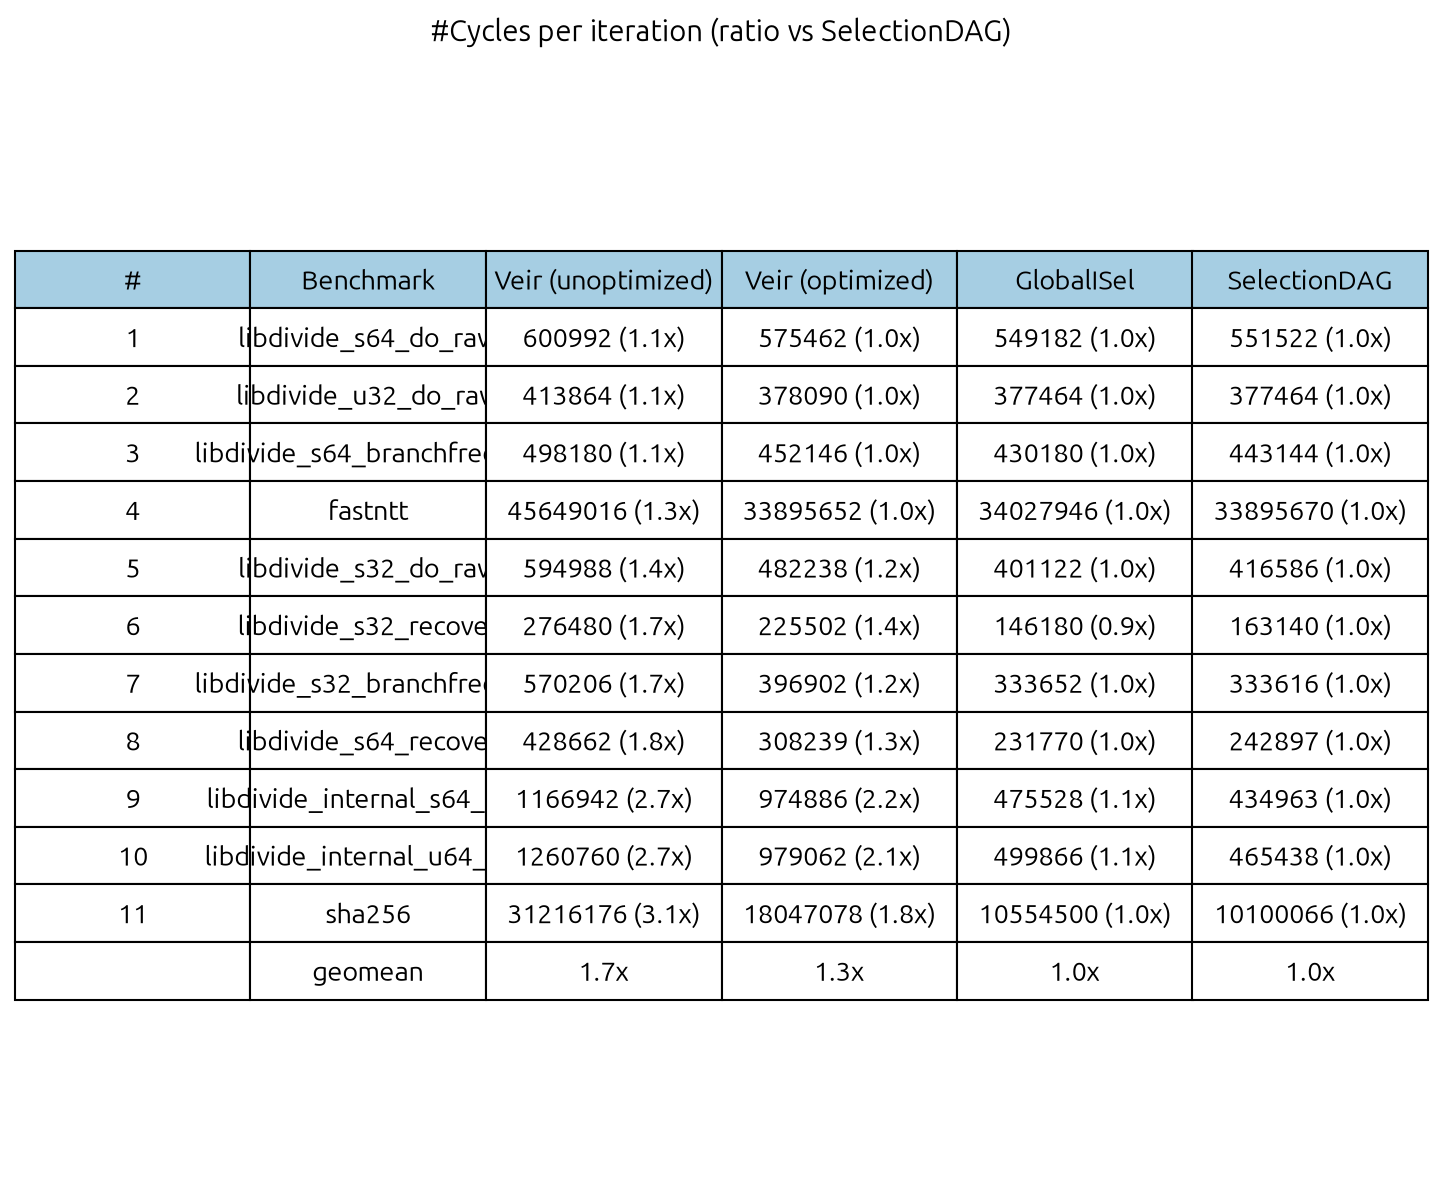
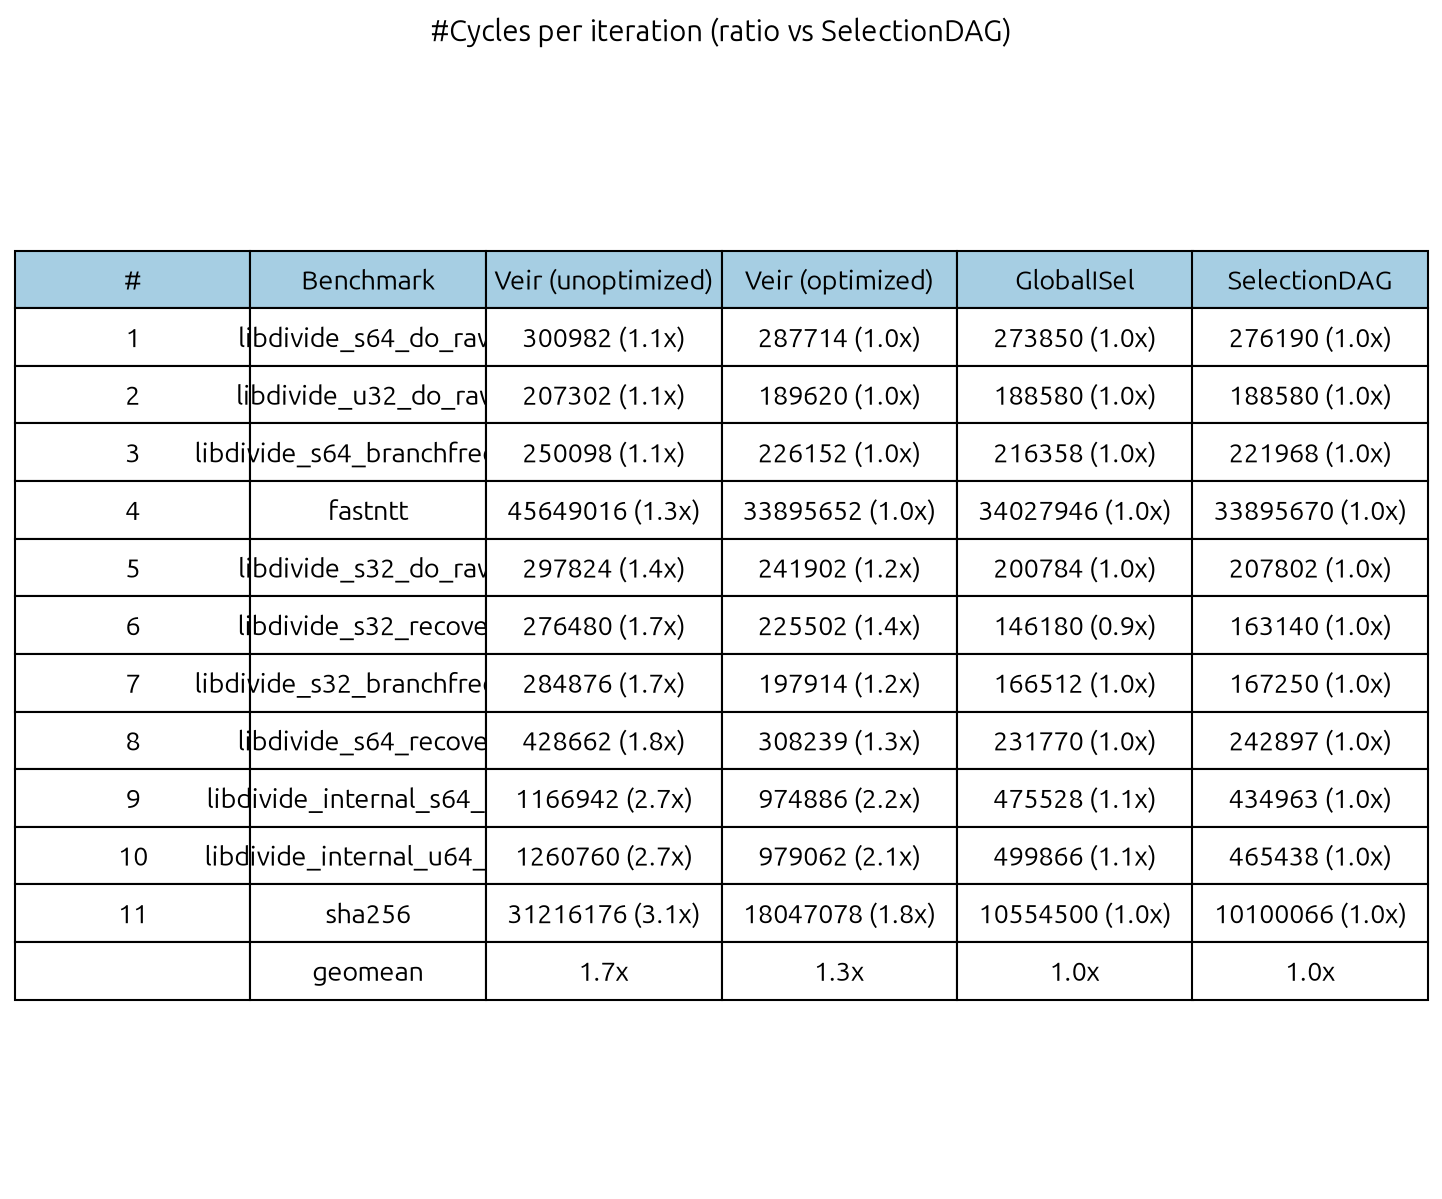
fix

diff --git a/real-benchmarks/table.py b/real-benchmarks/table.py
@@ -26,54 +26,58 @@ import matplotlib
 matplotlib.use("Agg")
 import matplotlib.pyplot as plt
 
+# Sibling script in real-benchmarks/: stats parsing shared with the
+# comparison tool.
+from compare_results import extract_stat, split_name
+
 ROOT_DIR_PATH = Path(
     subprocess.check_output(["git", "rev-parse", "--show-toplevel"]).decode().strip()
 )
 
-# Per-variant cycles_raw.csv inputs, produced by earlier runs of this script
-# against the optimized / unoptimized VeIR results.
-DATA_OPT = ROOT_DIR_PATH / "real-benchmarks" / "data-optimized"
-DATA_UNOPT = ROOT_DIR_PATH / "real-benchmarks" / "data-unoptimized"
+# Per-run gem5 stats produced by bench.py, one file per (benchmark, pipeline).
+RESULTS_DIR = ROOT_DIR_PATH / "real-benchmarks" / "results"
 DATA_DIR = ROOT_DIR_PATH / "real-benchmarks" / "data"
 PLOTS_DIR = ROOT_DIR_PATH / "real-benchmarks" / "plots"
 
-# Table columns, in order. The two VeIR variants come from DATA_OPT/DATA_UNOPT;
-# GlobalISel and SelectionDAG are identical in both and taken from DATA_OPT.
+# Table columns, in order. Directory naming (see utils/generate.py):
+# VEIR_REGALLOC_ASM comes from the plain VEIR flow, without riscv-combine
+# (unoptimized); VEIR_OPT_REGALLOC_ASM from the VEIR_opt flow, with
+# riscv-combine (optimized).
 PIPELINES = [
-    "VEIR_UNOPT",
-    "VEIR_OPT",
+    "VEIR_REGALLOC_ASM",
+    "VEIR_OPT_REGALLOC_ASM",
     "LLC_ASM_globalisel",
     "LLC_ASM_selectiondag",
 ]
 BASELINE = "LLC_ASM_selectiondag"
 
 PIPELINE_LABELS = {
-    "VEIR_OPT": "Veir (optimized)",
-    "VEIR_UNOPT": "Veir (unoptimized)",
+    "VEIR_OPT_REGALLOC_ASM": "Veir (optimized)",
+    "VEIR_REGALLOC_ASM": "Veir (unoptimized)",
     "LLC_ASM_globalisel": "GlobalISel",
     "LLC_ASM_selectiondag": "SelectionDAG",
 }
 
+CYCLES_STAT = "system.cpu.numCycles"
 
-def collect_cycles(data_opt, data_unopt):
-    """Build the benchmark x pipeline cycles DataFrame by merging the two
-    per-variant cycles_raw.csv files: the VEIR_REGALLOC_ASM column of each
-    becomes VEIR_OPT / VEIR_UNOPT; GlobalISel/SelectionDAG (identical across
-    the two) come from the optimized file. Columns follow PIPELINES order."""
-    for d in (data_opt, data_unopt):
-        if not (d / "cycles_raw.csv").is_file():
-            sys.exit(f"missing {d / 'cycles_raw.csv'}")
 
-    df_opt = pd.read_csv(data_opt / "cycles_raw.csv").rename(
-        columns={"VEIR_REGALLOC_ASM": "VEIR_OPT"}
-    )
-    df_unopt = pd.read_csv(data_unopt / "cycles_raw.csv").rename(
-        columns={"VEIR_REGALLOC_ASM": "VEIR_UNOPT"}
-    )[["benchmark", "VEIR_UNOPT"]]
+def collect_cycles(results_dir):
+    """Benchmark x pipeline cycles DataFrame from bench.py's gem5 stats
+    (results/<benchmark>_<pipeline>.stats.txt). Cycles come from the FIRST
+    stats dump in each file, i.e. the measured kernel region between
+    m5_reset_stats() and m5_dump_stats(). Columns follow PIPELINES order."""
+    table = {}
+    for f in sorted(results_dir.glob("*.stats.txt")):
+        bench, pipe = split_name(f.name[: -len(".stats.txt")], PIPELINES)
+        if pipe is None:
+            print(f"warning: {f.name}: unknown pipeline, skipped", file=sys.stderr)
+            continue
+        table.setdefault(bench, {})[pipe] = extract_stat(f, CYCLES_STAT)
 
-    df = df_opt.merge(df_unopt, on="benchmark", how="outer")
-    cols = ["benchmark"] + [p for p in PIPELINES if p in df.columns]
-    return df[cols]
+    df = pd.DataFrame([{"benchmark": b, **table[b]} for b in sorted(table)])
+    if df.empty:
+        return df
+    return df[["benchmark"] + [p for p in PIPELINES if p in df.columns]]
 
 
 def compute_ratios(df_cycles, pipelines, baseline):
@@ -186,9 +190,10 @@ def render_table_as_png(df_cycles, df_ratios, geomeans, pipelines, title, filepa
 def main(upload=True):
     setup_plotting_directories(DATA_DIR, PLOTS_DIR)
 
-    df_cycles = collect_cycles(DATA_OPT, DATA_UNOPT)
+    df_cycles = collect_cycles(RESULTS_DIR)
+
     if df_cycles.empty:
-        print(f"No benchmarks found in {DATA_OPT} / {DATA_UNOPT}", file=sys.stderr)
+        print(f"No gem5 stats found in {RESULTS_DIR}", file=sys.stderr)
         sys.exit(1)
     if BASELINE not in df_cycles.columns:
         print(f"baseline {BASELINE!r} missing from inputs", file=sys.stderr)
@@ -198,7 +203,7 @@ def main(upload=True):
 
     # Order rows by ascending unoptimized-VeIR ratio (smallest ratio on top).
     # df_cycles and df_ratios share an index, so reorder both to keep aligned.
-    veir = "VEIR_UNOPT"
+    veir = "VEIR_REGALLOC_ASM"
     if veir in df_ratios.columns:
         order = df_ratios.sort_values(veir, kind="stable").index
         df_cycles = df_cycles.loc[order].reset_index(drop=True)

diff --git a/real-benchmarks/data/cycles_ratio_table_real.tex b/real-benchmarks/data/cycles_ratio_table_real.tex
@@ -6,13 +6,13 @@
         \cmidrule(lr){3-6}
         \textbf{\#} & \textbf{Benchmark} & \textbf{Veir (unoptimized)} & \textbf{Veir (optimized)} & \textbf{GlobalISel} & \textbf{SelectionDAG} \\
         \midrule
-        1 & \texttt{libdivide\_s64\_do\_raw} & 600992 (1.1x) & 575462 (1.0x) & 549182 (1.0x) & 551522 (1.0x) \\
-        2 & \texttt{libdivide\_u32\_do\_raw} & 413864 (1.1x) & 378090 (1.0x) & 377464 (1.0x) & 377464 (1.0x) \\
-        3 & \texttt{libdivide\_s64\_branchfree\_do} & 498180 (1.1x) & 452146 (1.0x) & 430180 (1.0x) & 443144 (1.0x) \\
+        1 & \texttt{libdivide\_s64\_do\_raw} & 300982 (1.1x) & 287714 (1.0x) & 273850 (1.0x) & 276190 (1.0x) \\
+        2 & \texttt{libdivide\_u32\_do\_raw} & 207302 (1.1x) & 189620 (1.0x) & 188580 (1.0x) & 188580 (1.0x) \\
+        3 & \texttt{libdivide\_s64\_branchfree\_do} & 250098 (1.1x) & 226152 (1.0x) & 216358 (1.0x) & 221968 (1.0x) \\
         4 & \texttt{fastntt} & 45649016 (1.3x) & 33895652 (1.0x) & 34027946 (1.0x) & 33895670 (1.0x) \\
-        5 & \texttt{libdivide\_s32\_do\_raw} & 594988 (1.4x) & 482238 (1.2x) & 401122 (1.0x) & 416586 (1.0x) \\
+        5 & \texttt{libdivide\_s32\_do\_raw} & 297824 (1.4x) & 241902 (1.2x) & 200784 (1.0x) & 207802 (1.0x) \\
         6 & \texttt{libdivide\_s32\_recover} & 276480 (1.7x) & 225502 (1.4x) & 146180 (0.9x) & 163140 (1.0x) \\
-        7 & \texttt{libdivide\_s32\_branchfree\_do} & 570206 (1.7x) & 396902 (1.2x) & 333652 (1.0x) & 333616 (1.0x) \\
+        7 & \texttt{libdivide\_s32\_branchfree\_do} & 284876 (1.7x) & 197914 (1.2x) & 166512 (1.0x) & 167250 (1.0x) \\
         8 & \texttt{libdivide\_s64\_recover} & 428662 (1.8x) & 308239 (1.3x) & 231770 (1.0x) & 242897 (1.0x) \\
         9 & \texttt{libdivide\_internal\_s64\_gen} & 1166942 (2.7x) & 974886 (2.2x) & 475528 (1.1x) & 434963 (1.0x) \\
         10 & \texttt{libdivide\_internal\_u64\_gen} & 1260760 (2.7x) & 979062 (2.1x) & 499866 (1.1x) & 465438 (1.0x) \\

diff --git a/real-benchmarks/harnesses/harness_libdivide_s32_do_raw.c b/real-benchmarks/harnesses/harness_libdivide_s32_do_raw.c
@@ -5,7 +5,7 @@
 #include <gem5/m5ops.h>
 
 #define NUM_DIVISORS 8
-#define NUM_NUMERATORS 256
+#define NUM_NUMERATORS 128
 
 /*
  * Kernel under test: libdivide_s32_do_raw as lowered by the pipeline

diff --git a/real-benchmarks/harnesses/harness_libdivide_s64_do_raw.c b/real-benchmarks/harnesses/harness_libdivide_s64_do_raw.c
@@ -5,7 +5,7 @@
 #include <gem5/m5ops.h>
 
 #define NUM_DIVISORS 8
-#define NUM_NUMERATORS 256
+#define NUM_NUMERATORS 128
 
 /*
  * Kernel under test: libdivide_s64_do_raw as lowered by the pipeline

diff --git a/real-benchmarks/harnesses/harness_libdivide_u32_do_raw.c b/real-benchmarks/harnesses/harness_libdivide_u32_do_raw.c
@@ -5,7 +5,7 @@
 #include <gem5/m5ops.h>
 
 #define NUM_DIVISORS 8
-#define NUM_NUMERATORS 256
+#define NUM_NUMERATORS 128
 
 /*
  * Kernel under test: libdivide_u32_do_raw as lowered by the pipeline

diff --git a/real-benchmarks/harnesses/harness_libdivide_s32_branchfree_do.c b/real-benchmarks/harnesses/harness_libdivide_s32_branchfree_do.c
@@ -5,7 +5,7 @@
 #include <gem5/m5ops.h>
 
 #define NUM_DIVISORS 8
-#define NUM_NUMERATORS 256
+#define NUM_NUMERATORS 128
 
 /*
  * Kernel under test: libdivide_s32_branchfree_do as lowered by the

diff --git a/real-benchmarks/harnesses/harness_libdivide_s64_branchfree_do.c b/real-benchmarks/harnesses/harness_libdivide_s64_branchfree_do.c
@@ -5,7 +5,7 @@
 #include <gem5/m5ops.h>
 
 #define NUM_DIVISORS 8
-#define NUM_NUMERATORS 256
+#define NUM_NUMERATORS 128
 
 /*
  * Kernel under test: libdivide_s64_branchfree_do as lowered by the

diff --git a/real-benchmarks/compare_results.py b/real-benchmarks/compare_results.py
@@ -27,6 +27,7 @@ PIPELINES = [
     "LLC_ASM_globalisel",
     "LLC_ASM_selectiondag",
     "VEIR_REGALLOC_ASM",
+    "VEIR_OPT_REGALLOC_ASM",
 ]
 
 

diff --git a/README.md b/README.md
@@ -1,54 +1,53 @@
 # Evaluating Veir's backend against LLVM
 
 This repo evaluates the performance of [Veir](https://github.com/opencompl/veir)'s verified instruction selection pass
-against that of LLVM's selector (GlobalISel and SelectionDAG). We compare synthetic and real benchmarks, employing LLVM's MCA tool to estimate the performance of the resulting assembly. We also reproduce some real LLVM bugs found via fuzzing, 
-proving their incorrectness. 
+against that of LLVM's selectors (GlobalISel and SelectionDAG). We lower a set of real C benchmarks to RISC-V assembly
+through each backend and measure them with the [gem5](https://www.gem5.org/) simulator. We also reproduce some real
+LLVM bugs found via fuzzing, proving their incorrectness.
 
-We lower each benchmark from MLIR to RISC-V assembly across the following pipelines: 
-- LLC with GlobalISel selector
-- LLC with SelectionDAG selector
-- Veir selector with LLC register allocator
-
-Using LLVM's MCA tool we analyze each assembly file and compare the output estimated performance. 
+Each benchmark is lowered from MLIR to RISC-V assembly across the following pipelines:
+- LLC with the GlobalISel selector
+- LLC with the SelectionDAG selector
+- Veir selector without `riscv-combine` (unoptimized) + LLC register allocator
+- Veir selector with the `riscv-combine` pass (optimized) + LLC register allocator
 
 ## Repository layout
 
-- `llvm-project/`, `veir/`: submodules
-- `build/` : build output for LLVM and for the `utils` module, created by `build.sh`
-- `synthetic-benchmarks/`: the fuzzed-benchmark pipeline, generated by [mlir-fuzz](https://github.com/opencompl/mlir-fuzz)
-- `real-benchmarks/`: the real-benchmark pipeline
-- `utils/` — shared Python library used by both pipelines (packaged via `utils/pyproject.toml`).
-- `generate_multi.py` — regenerates the fuzzed MLIR corpus in `synthetic-benchmarks/MLIR_multi/`
+- `llvm-project/`, `veir/`, `gem5/`: submodules
+- `build/`: build output for LLVM, created by `build.sh`
+- `real-benchmarks/`: the benchmark pipeline (generation, gem5 runs, tables)
+- `utils/`: shared Python library used by the pipeline (packaged via `utils/pyproject.toml`)
 - `Bugs.lean`: reproducing real bugs found in LLVM via fuzzing
-- `makefile`: generate all tests, run MCA analysis, plot
+- `makefile`: generate all benchmarks, run gem5, produce tables
+- `.github/workflows/ci.yml`: CI running the same pipeline
 
 ## Dependencies & setup
 
 The evaluation depends on:
 - LLVM with clang and MLIR
-- VEIR
+- Veir
+- gem5 (plus `scons` to build it)
+- a RISC-V cross toolchain for linking the gem5 binaries (`riscv64-linux-gnu-gcc`
+  with a sysroot at `/usr/riscv64-linux-gnu`)
 
-All these dependencies are correctly set up in `.gitmodules`.
-
-To fetch them and then build everything, run:
+All submodules are set up in `.gitmodules`. To fetch them and build everything, run:
 ```
 git submodule update --init --depth 1 -- llvm-project
-git submodule update --init -- veir 
+git submodule update --init -- veir
+git submodule update --init -- gem5
 ./build.sh
 ```
 You can use the same commands to bring in fresh versions of everything and then rebuild.
+`build.sh` builds LLVM (clang + MLIR), Veir (`lake build`), gem5 (`scons build/RISCV/gem5.opt`),
+and the `utils` package. `bench.py` additionally links against the m5 utility library, built
+from `gem5/util/m5` for RISC-V (`gem5/util/m5/build/riscv/out/libm5.a`).
 
 To add llvm and mlir to your path:
 ```
 export PATH=$PATH:/LLVM_PATH/build/bin
 ```
 
-The benchmark generation scripts (`generate.py`) are run with `uv run --script`. 
-
-The fuzzed benchmarks in `synthetic-benchmarks/MLIR_multi` come from the
-[mlir-fuzz](https://github.com/opencompl/mlir-fuzz) fuzzer, at the version reported in
-`MLIR_multi/version_log.txt`. It is possible to regenerate them with `python3 generate_multi.py --min_size
---max_size --num`, if `mlir-fuzz` is installed and its path is set in the script. 
+The benchmark generation script (`generate.py`) is run with `uv run --script`.
 
 ## Running the pipeline
 
@@ -65,45 +64,54 @@ uv run real-benchmarks/bench.py
 uv run real-benchmarks/table.py
 ```
 
-`make quick` runs the same steps single-threaded and with only 5 synthetic benchmarks per
-size (`generate.py -j 1 -n 5`), for a fast local smoke-test.
-
-`make clean` removes all generated benchmark/result/plot/data directories, leaving the
-pipeline scripts and the `MLIR_multi` fuzzer corpus untouched.
+`make clean` removes all generated benchmark/result/data directories, leaving the
+pipeline scripts untouched.
 
 Each script also runs standalone via `uv run <path>` and takes its own flags.
 
 ## Real benchmarks (`real-benchmarks/`)
 
-`generate.py` runs the same style of pipeline over a small set of real C programs, instead of the fuzzed corpus:
+`generate.py` lowers a small set of real C programs (`c/`) through every pipeline:
 - Compile the C source to MLIR via VCC, output `MLIR_init/*.mlir`.
-- `mlir-translate` to LLVM IR, stripping target-specific metadata so `llc` can target RISC-V
+- `mlir-translate` to LLVM IR, stripping target-specific metadata so `llc` can target RISC-V,
   and generate `LLVMIR/*.ll`.
 - `opt` to optimize, save in `LLVM_preopt/*.ll`, then `mlir-translate` back to MLIR and save in `MLIR_preopt/*.mlir`.
-- LLVM toolchain: `llc` SelectionDAG/GlobalISel (`LLC_ASM_selectiondag/`, `LLC_ASM_globalisel/`)
-- VeIR toolchain: extract `bb0` and save in `MLIR_bb0_veir/`, invoke `veir-opt` and generate `VEIR_ASM/`
-- Use the `veir2mir` tool (`VEIR_MIR/`) to generate the MIR representation, register allocate with `llc` (`VEIR_REGALLOC_ASM/`)
+- LLVM toolchain: `llc` SelectionDAG/GlobalISel (`LLC_ASM_selectiondag/`, `LLC_ASM_globalisel/`).
+- Veir toolchain: extract `bb0` into `MLIR_bb0_veir/`, then lower with `veir-opt` twice:
+  - without the `riscv-combine` pass (unoptimized), into `VEIR_ASM/`;
+  - with it (optimized), into `VEIR_OPT_ASM/`.
 
+  Each variant is then translated to MIR with `veir2mir` (`VEIR_MIR/`, `VEIR_OPT_MIR/`) and
+  register-allocated with `llc` (`VEIR_REGALLOC_ASM/`, `VEIR_OPT_REGALLOC_ASM/`).
 
-`bench.py` then runs the gem5 simulator on all the assembly files, hooking them into the harnesses 
-defined in `real-benchmarks/harnesses/`
+`bench.py` assembles and links each pipeline's assembly against the harnesses in
+`harnesses/` (using clang and the RISC-V cross toolchain, linking in gem5's m5 library),
+runs each binary under gem5 (`TimingSimpleCPU` in syscall-emulation mode), and saves the
+stats to `results/<benchmark>_<pipeline>.stats.txt`. It verifies that all pipelines produce
+the same checksum for each benchmark and prints a status matrix.
 
-`table.py` parses those results into LaTeX and PNG tables of #instructions and #cycles per
-iteration, saved into `data/`, and optionally uploads them to Zulip.
+`compare_results.py` pivots those per-run gem5 stats into a benchmark x pipeline table
+(cycles or any other stat), with each pipeline's overhead relative to a baseline.
 
-To add a new real benchmark it is sufficient to add the path of the `.c` file to the `BENCHMARKS` list in `generate.py`.
+`table.py` reads the same per-run gem5 stats from `results/` and produces CSV/LaTeX/PNG
+tables of cycles per iteration with ratios against SelectionDAG, saved into `data/`, and
+optionally uploads them to Zulip.
+
+To add a new real benchmark, add the path of the `.c` file to the `BENCHMARKS` list in
+`generate.py`, provide a matching harness in `harnesses/`, and list it in `bench.py`'s
+benchmark/harness tables.
 
 ## `utils/` module
 
-Shared library backing both pipelines, installed as an editable path dependency:
+Shared library backing the pipeline, installed as an editable path dependency:
 - `generate.py` — all the lowering-step wrappers (`mlir-opt`/`mlir-translate`/`llc`/
   `veir-opt`/`veir2mir`), directory setup/cleanup, and the MLIR extraction/sanitization
-  helpers that turn fuzzer output into individually testable functions.
-- `bench.py` — directory setup and the `llvm-mca` file/folder runners.
-- `plot.py` — dataframe construction, all the plot types (scatter/bar/violin/proportional/
+  helpers.
+- `plot.py` — dataframe construction, plot types (scatter/bar/violin/proportional/
   geomean), LaTeX table/command generation, PDF→JPG conversion, and the Zulip upload helper.
 - `lib.py` — small provenance helpers (`root_dir`, `git_hash`, `machine_username`,
   `machine_hostname`, `machine_uname`) used to tag uploaded results.
+- `create_func.py` — xDSL-based helper that wraps RISC-V dialect MLIR into a function.
 - `upload_zulip.py` — posts result blurbs/plots/attachments to Zulip. Needs a `zuliprc`
   credentials file at the repo root to actually upload; without one, generation/analysis
   still work, only the upload step is skipped/fails.
@@ -112,6 +120,6 @@ Shared library backing both pipelines, installed as an editable path dependency:
 
 `Bugs.lean` (built via `lakefile.toml`, which depends on the `veir` submodule as a Lean
 package) proves that specific LLVM instruction-selection rewrites are semantically
-incorrect, using VeIR's formal semantics for LLVM/RISC-V integers as the reference. Build it
-the same way as VeIR itself, with `lake build` from the repo root (see `build.sh`).
+incorrect, using Veir's formal semantics for LLVM/RISC-V integers as the reference. Build it
+the same way as Veir itself, with `lake build` from the repo root (see `build.sh`).
 The `guard_msgs` calls ensure that the proofs are complete and `sorry`-free.
